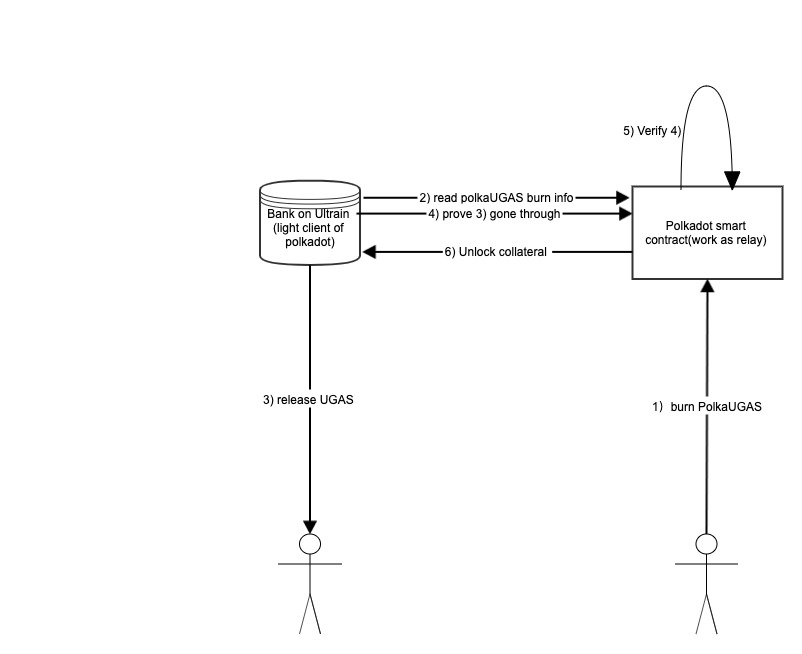
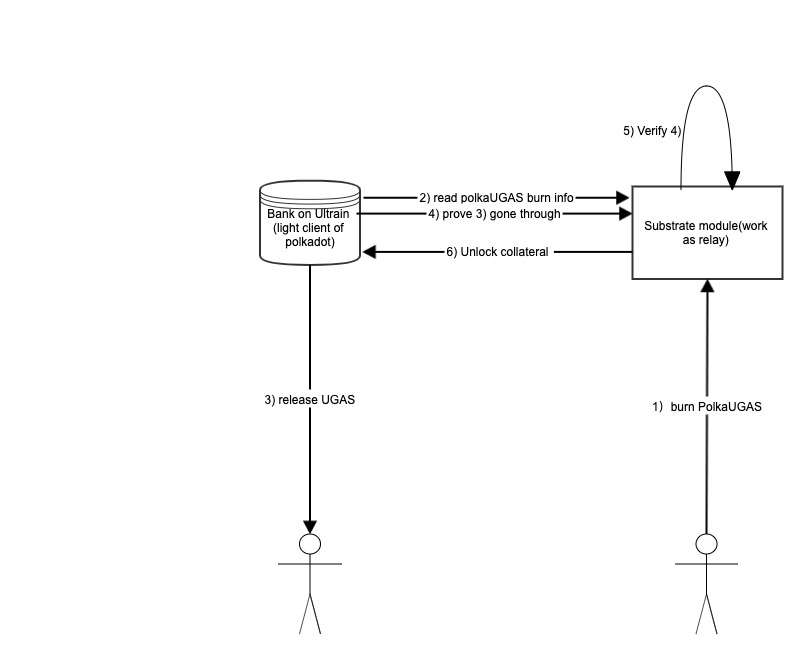
give more details about the function of bridge.

diff --git a/grants/speculative/Ultrain_Polkadot_Bridge.md b/grants/speculative/Ultrain_Polkadot_Bridge.md
@@ -128,9 +128,22 @@ https://github.com/ultrain-os
     * Issue UGAS in Polka format, which is UGAS' reflection in Polkadot; 
     * Function Test 
 
+* Deliverables
+    * Provide below actions.
+        * lock_collateral, banker can lock collateral in Polkadot.
+        * redeem_ugas, customer can burn their PolkaUGAS by this action.
+        * get_who_redeem_ugas, the banker can call this function to get who redeem ugas.
+        * prove_ultrain_action, the banker can provide proof to polkadot module for Ultrain action, like release UGAS.
+        * unlock_collateral, the banker can get back collateral.
+
+* Documentation
+    * Function specification
+
+
 ### Milestone 2: 4 Weeks
 
 * Build the Parachain for Polkadot, which maintains the genesis block info and committee members of Ultrain.
+    * We'll provide Docker container for users
     * Function Test 
 
 * Documentation:
@@ -139,11 +152,14 @@ https://github.com/ultrain-os
 ### Milestone 3：4 Weeks
 
 * Realize Bank component on Ultrain’s chain, which has the functions below:
-    * Receive users' UGAS and lockup 
-    * Submit transaction data and merkle proof to Polkadot-Ultrain-Bridge 
+    * Receive users' UGAS and lockup
+    * Submit transaction data and merkle proof to Polkadot-Ultrain-Bridge
     * Release UGAS to user in Ultrain when he burn PolkaUGAS in Polkadot Parachain.
     * Integration test and deliver.
-
+* Deliverables
+    * Deploy bank contract in Ultrain
+    * Provide below action
+        * lock_ugas, lock UGAS to get PolkaUGAS.
 * Documentation
     * Function specification
 
